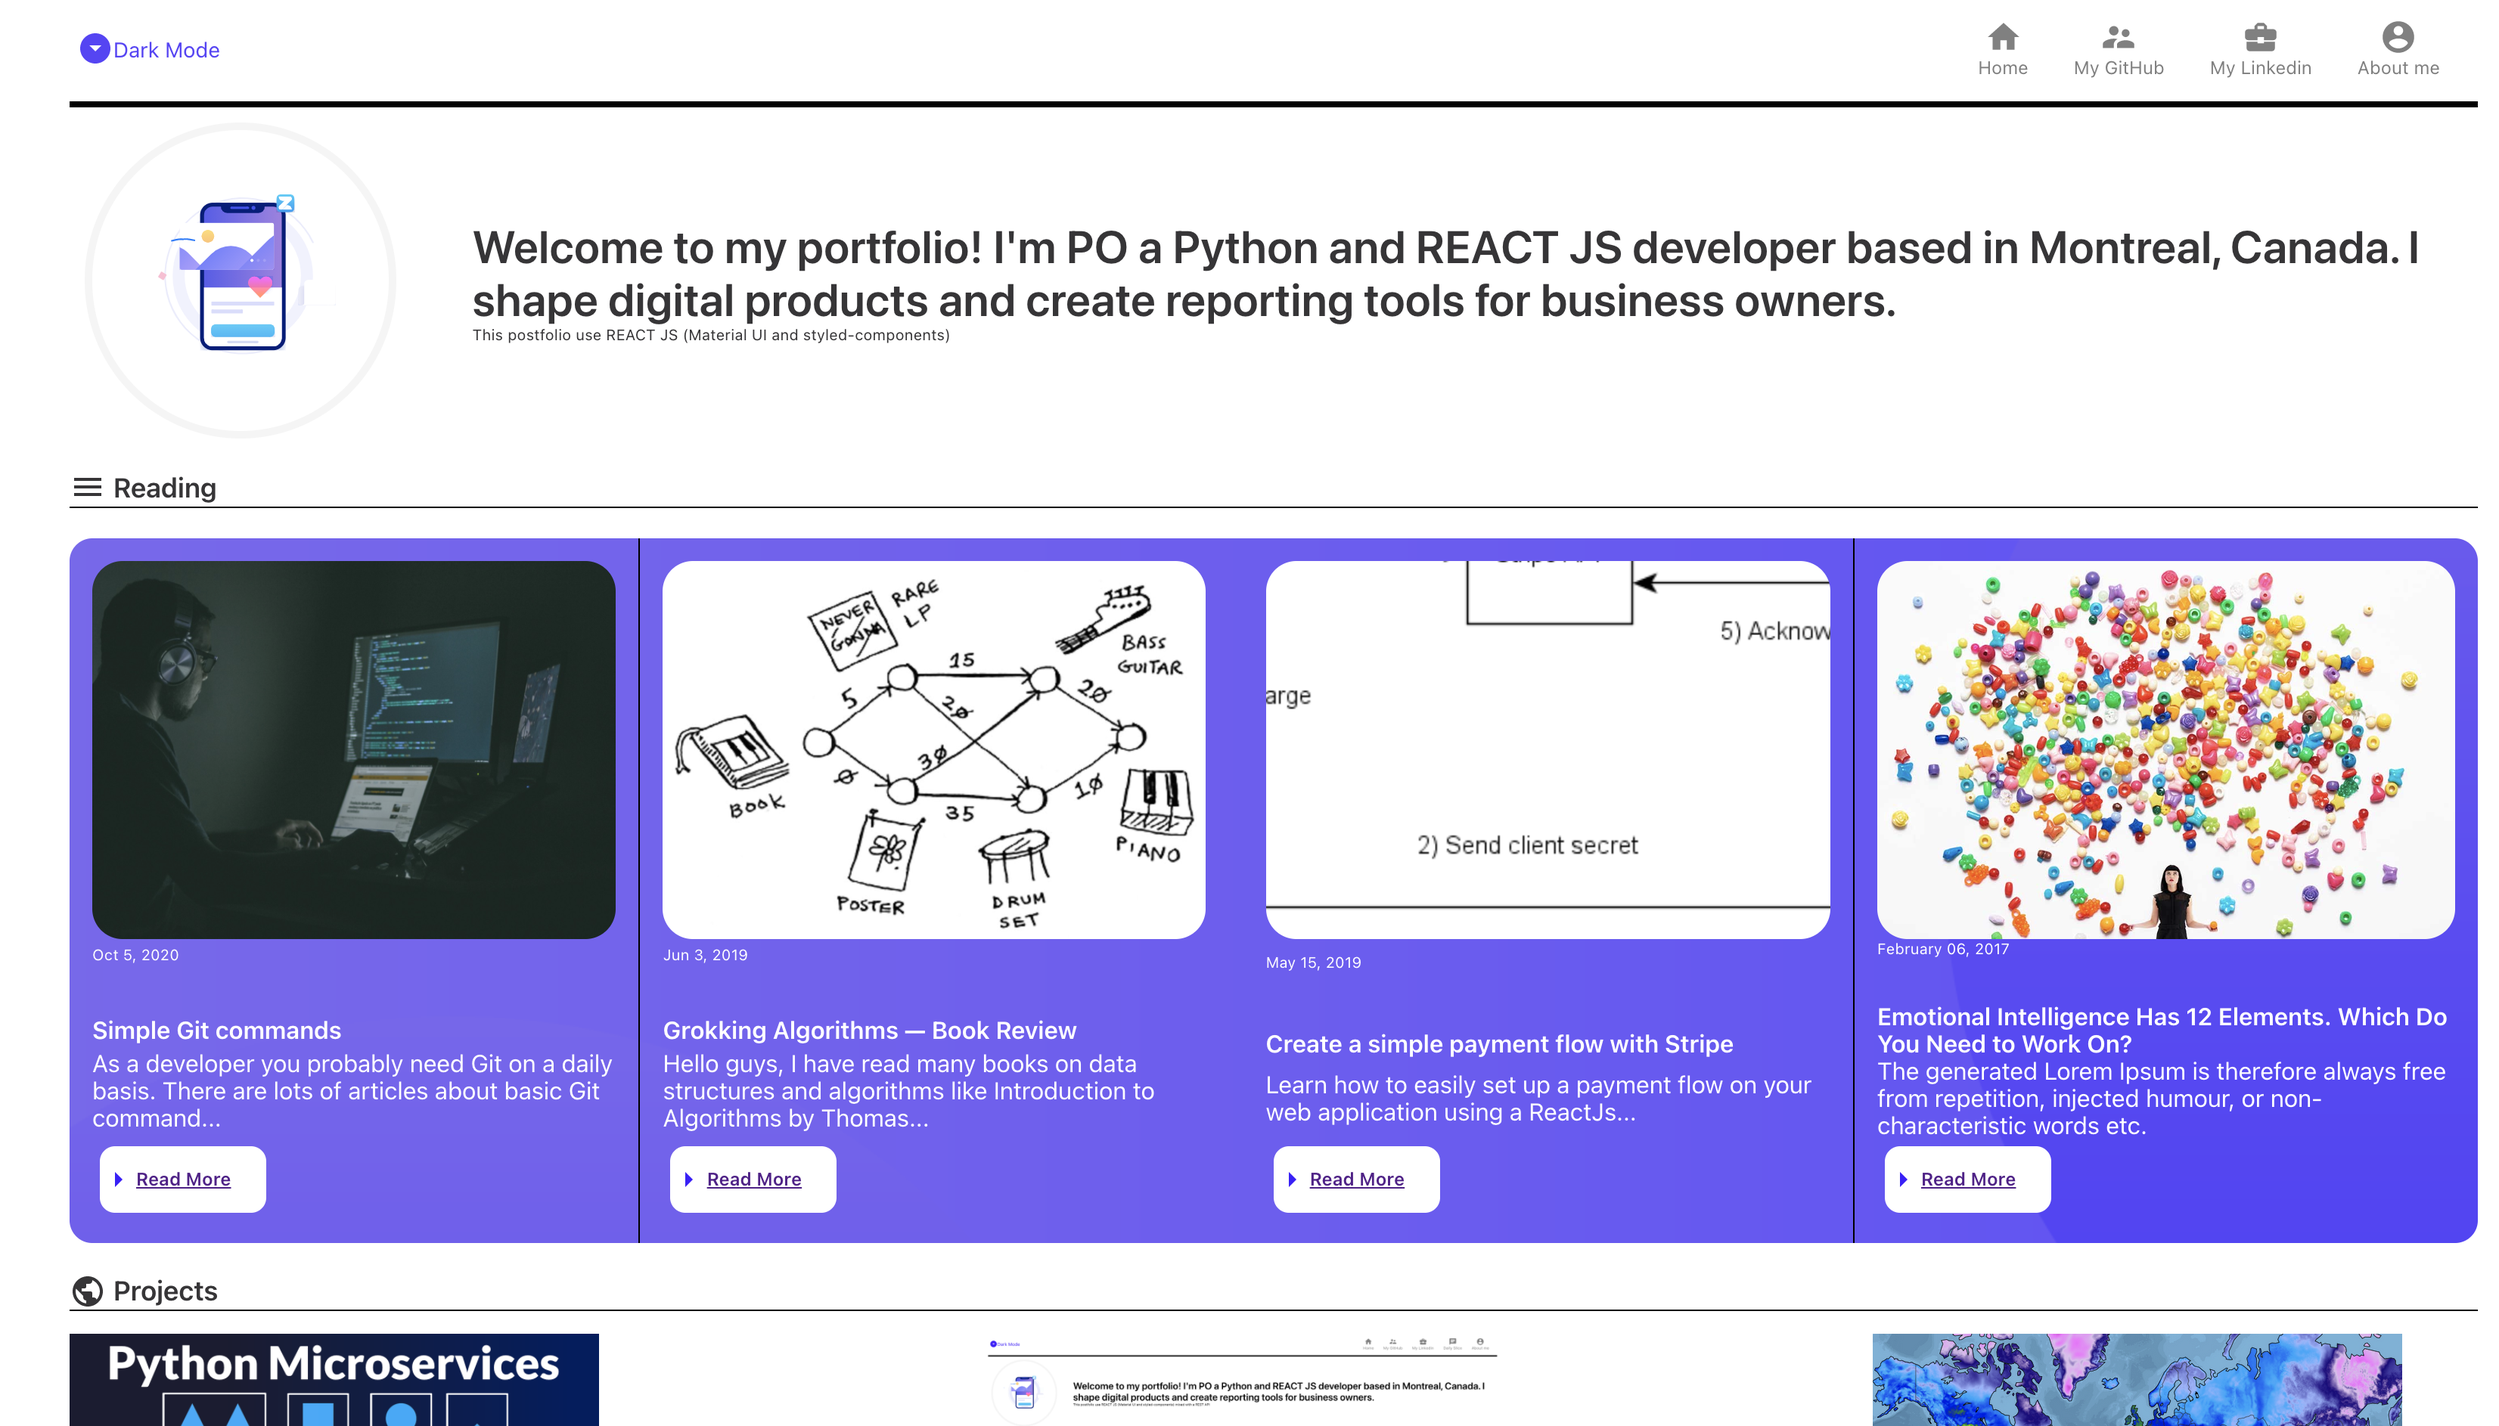
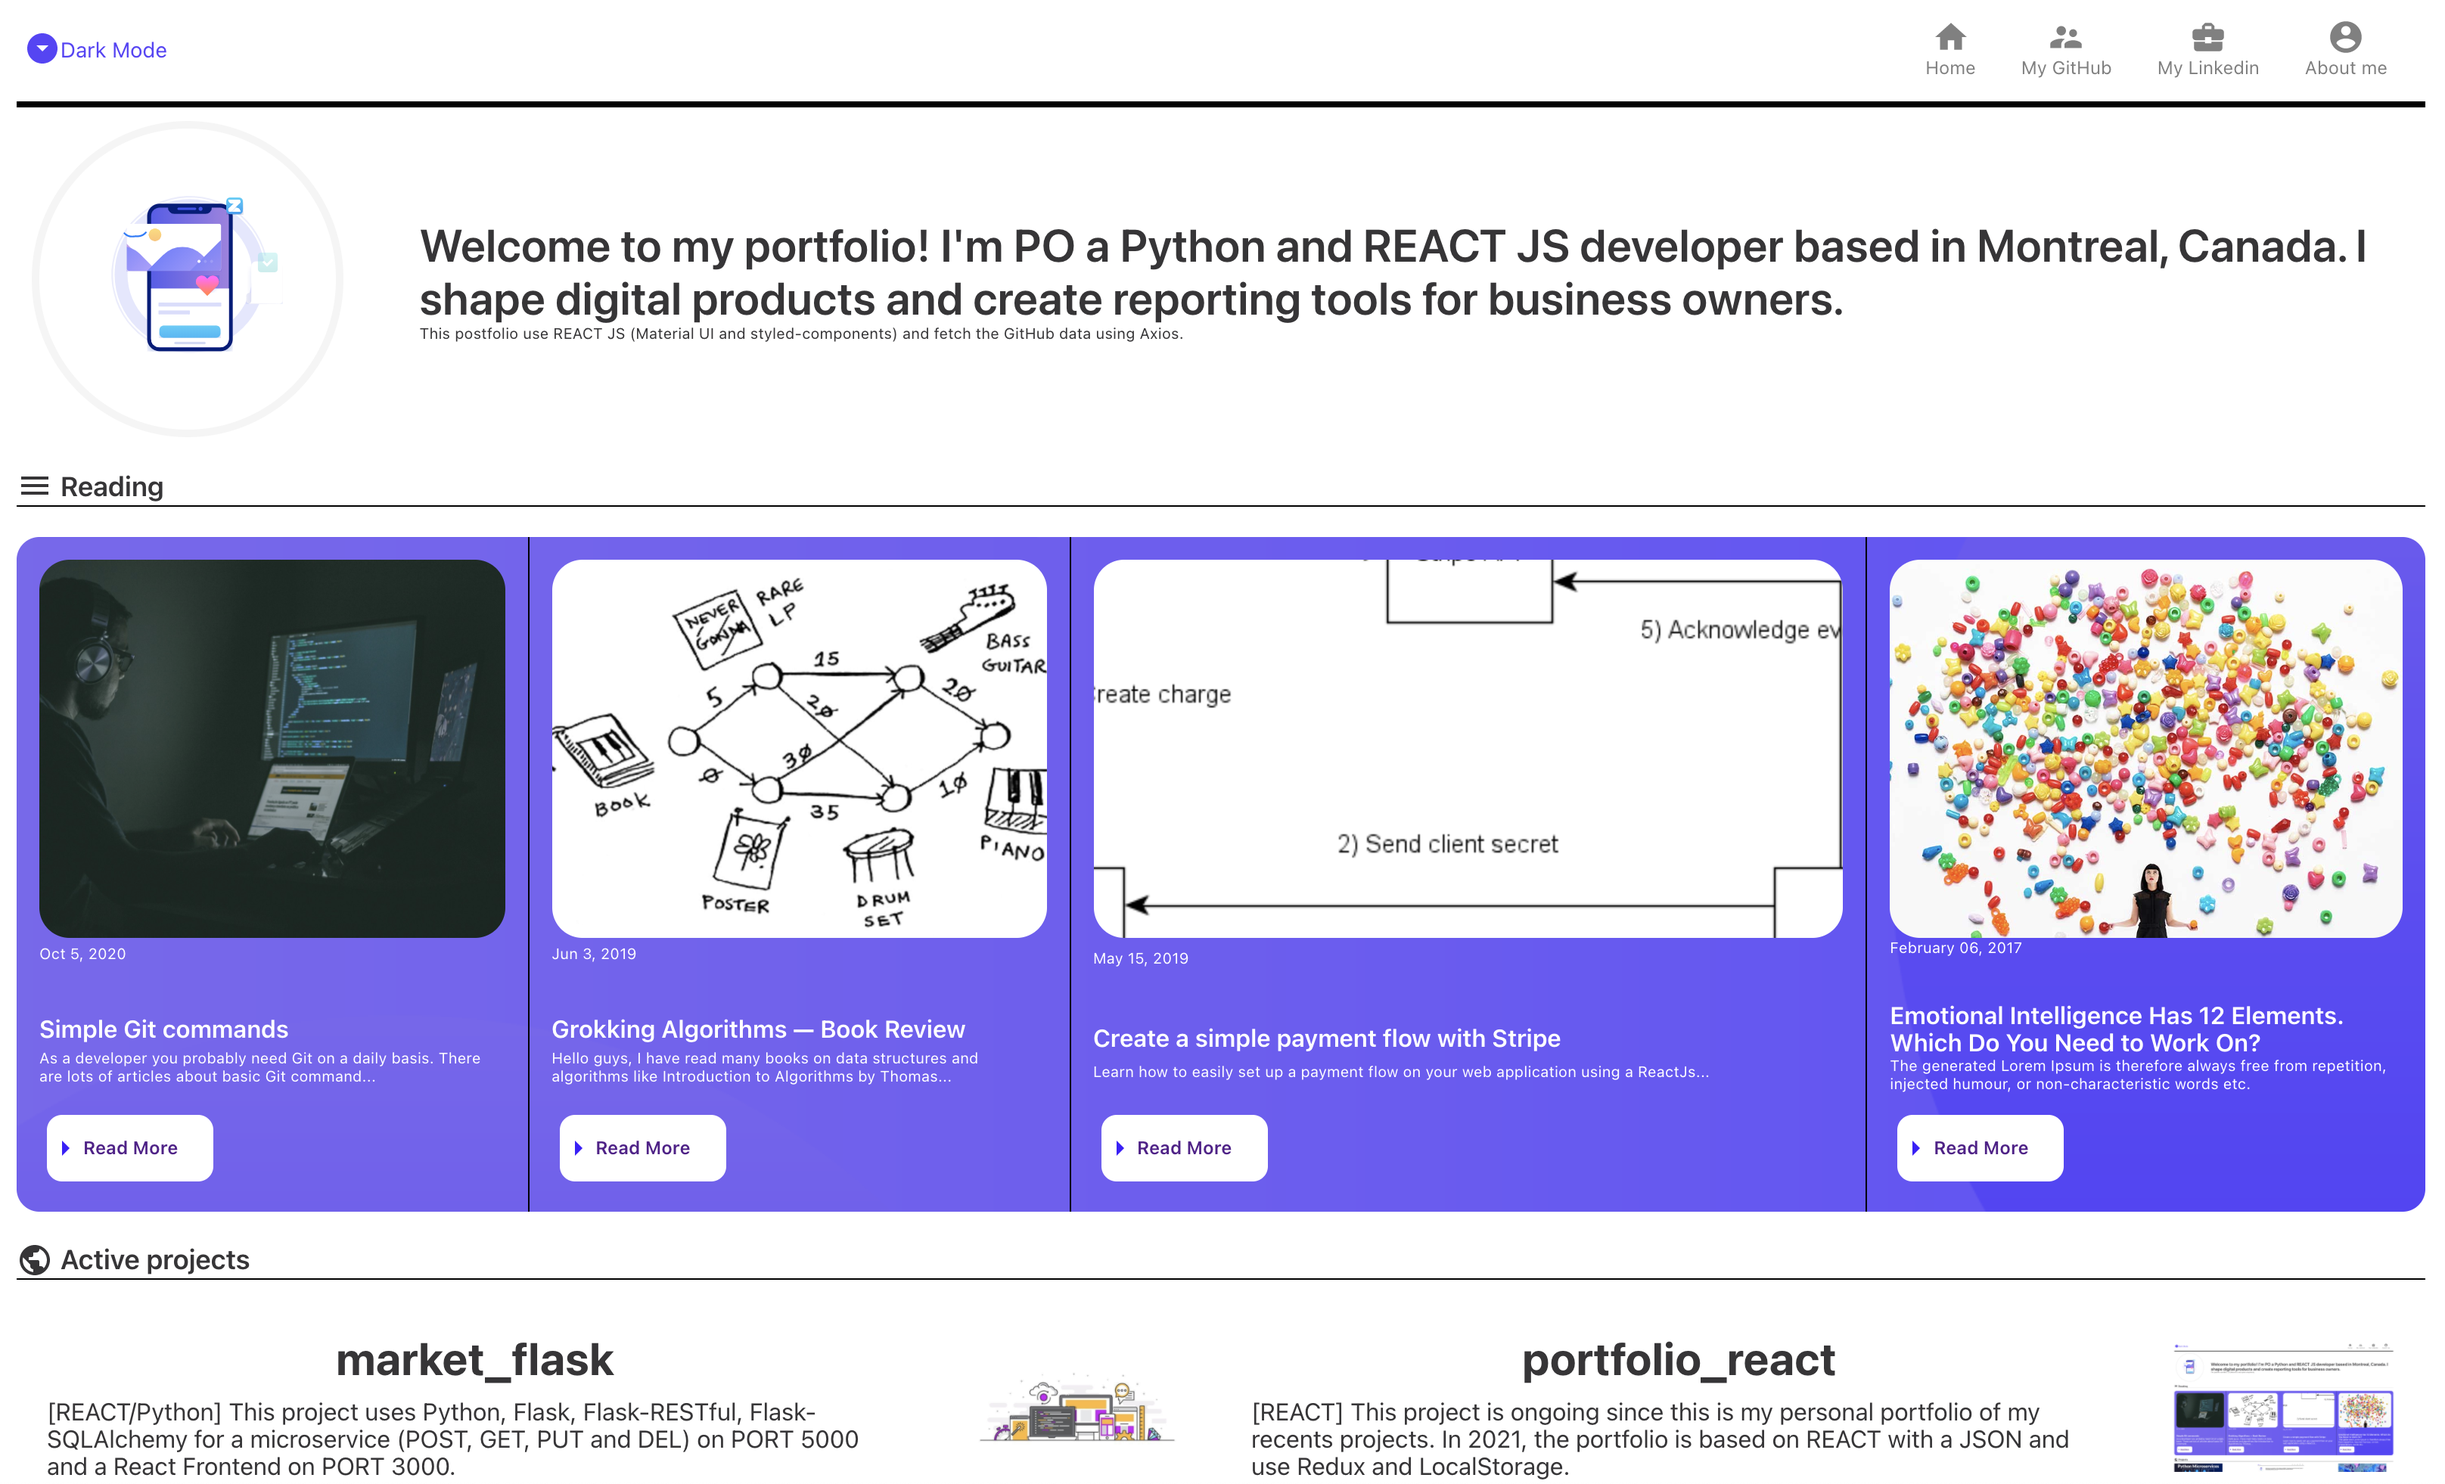
Revised Fetch API & pictures

diff --git a/src/components/API/api.js b/src/components/API/api.js
@@ -1,0 +1,64 @@
+import React from "react";
+import axios from "axios";
+import { Container, Inner, Pane, Title, SubTitle, Image } from "./styles/api";
+
+export default class GithubAPI extends React.Component {
+  state = {
+    rev_projects: [],
+  };
+
+  compareBy(key, ascending) {
+    let reverse = ascending ? 1 : -1;
+    return function (a, b) {
+      if (a[key] < b[key]) return -1 * reverse;
+      if (a[key] > b[key]) return 1 * reverse;
+      return 0;
+    };
+  }
+  componentDidMount() {
+    try {
+      axios.get(`https://api.github.com/users/poboisvert/repos`).then((res) => {
+        let rev_projects = res.data;
+        rev_projects.sort(this.compareBy("id"));
+        this.setState({ rev_projects });
+        console.log(rev_projects);
+      });
+    } catch (e) {
+      console.log(e);
+    }
+  }
+
+  render() {
+    return (
+      <>
+        {!this.state.rev_projects ? (
+          "Please review the data structure for the variable data"
+        ) : (
+          <>
+            <Inner direction="row">
+              {this.state.rev_projects
+                .filter(
+                  (array) =>
+                    array.name === "market_flask" ||
+                    array.name === "portfolio_react"
+                )
+                .map((project, i) => (
+                  <>
+                    <Container key={i}>
+                      <Pane>
+                        <Title>{project.name}</Title>
+                        <SubTitle>{project.description}</SubTitle>
+                      </Pane>
+                      <Pane>
+                        <Image src={project.homepage} />
+                      </Pane>
+                    </Container>
+                  </>
+                ))}
+            </Inner>
+          </>
+        )}
+      </>
+    );
+  }
+}

diff --git a/src/components/API/styles/api.js b/src/components/API/styles/api.js
@@ -1,0 +1,71 @@
+import styled from "styled-components/macro";
+
+export const Inner = styled.div`
+  display: flex;
+  flex-direction: ${({ direction }) => direction};
+  justify-content: center;
+
+  @media (max-width: 1000px) {
+    flex-direction: column;
+  }
+`;
+
+export const Pane = styled.div`
+  display: flex;
+  flex-direction: column;
+  justify-content: center;
+  align-items: center;
+  padding: 20px;
+
+  @media (max-width: 1000px) {
+    width: 100%;
+    padding: 0 45px;
+    text-align: center;
+  }
+`;
+
+export const Title = styled.h1`
+  font-size: 30px;
+  line-height: 1.1;
+  margin-bottom: 10px;
+
+  @media (max-width: 600px) {
+    font-size: 35px;
+  }
+`;
+
+export const SubTitle = styled.h2`
+  font-size: 16px;
+  font-weight: normal;
+  line-height: normal;
+
+  @media (max-width: 600px) {
+    font-size: 18px;
+  }
+`;
+
+export const Image = styled.img`
+  max-width: 150px;
+  height: auto;
+`;
+
+export const Item = styled.div`
+  display: flex;
+  border-bottom: 8px solid #222;
+  padding: 50px 5%;
+  color: white;
+  overflow: hidden;
+`;
+
+export const Container = styled.div`
+  display: flex;
+  flex: 0.5;
+  flex-direction: row;
+  justify-content: space-evenly;
+
+  @media (max-width: 1000px) {
+    ${Item}:last-of-type h2 {
+      margin-bottom: 50px;
+    }
+  }
+`;

diff --git a/src/components/Jumbotron/styles/Jumbotron.js b/src/components/Jumbotron/styles/Jumbotron.js
@@ -1,0 +1,71 @@
+import styled from "styled-components/macro";
+
+export const Inner = styled.div`
+  display: flex;
+  flex-direction: ${({ direction }) => direction};
+  justify-content: center;
+
+  @media (max-width: 1000px) {
+    flex-direction: column;
+  }
+`;
+
+export const Pane = styled.div`
+  display: flex;
+  flex-direction: column;
+  justify-content: center;
+  align-items: center;
+  padding: 20px;
+
+  @media (max-width: 1000px) {
+    width: 100%;
+    padding: 0 45px;
+    text-align: center;
+  }
+`;
+
+export const Title = styled.h1`
+  font-size: 50px;
+  line-height: 1.1;
+  margin-bottom: 8px;
+
+  @media (max-width: 600px) {
+    font-size: 35px;
+  }
+`;
+
+export const SubTitle = styled.h2`
+  font-size: 16px;
+  font-weight: normal;
+  line-height: normal;
+
+  @media (max-width: 600px) {
+    font-size: 18px;
+  }
+`;
+
+export const Image = styled.img`
+  max-width: 150px;
+  height: auto;
+`;
+
+export const Item = styled.div`
+  display: flex;
+  border-bottom: 8px solid #222;
+  padding: 50px 5%;
+  color: white;
+  overflow: hidden;
+`;
+
+export const Container = styled.div`
+  display: flex;
+  flex: 0.5;
+  flex-direction: row;
+  justify-content: space-evenly;
+
+  @media (max-width: 1000px) {
+    ${Item}:last-of-type h2 {
+      margin-bottom: 50px;
+    }
+  }
+`;

diff --git a/src/components/Projects/FetchCard.js b/src/components/Projects/FetchCard.js
@@ -17,12 +17,17 @@ export default class FetchArticle extends React.Component {
     rev_projects: [],
   };
 
-  /*   componentDidMount() {
+  /*   
+  
+  Fetch for general profile
+
+  componentDidMount() {
     axios.get(`https://api.github.com/users/poboisvert`).then((res) => {
       const persons = res.data;
       this.setState({ persons });
     });
   } */
+
   compareBy(key, ascending) {
     let reverse = ascending ? 1 : -1;
     return function (a, b) {
@@ -31,15 +36,13 @@ export default class FetchArticle extends React.Component {
       return 0;
     };
   }
-  async componentDidMount() {
+  componentDidMount() {
     try {
-      axios
-        .get(`https://api.github.com/users/poboisvert/repos?per_page=50`)
-        .then((res) => {
-          let rev_projects = res.data;
-          rev_projects.sort(this.compareBy("id"));
-          this.setState({ rev_projects });
-        });
+      axios.get(`https://api.github.com/users/poboisvert/repos`).then((res) => {
+        let rev_projects = res.data;
+        rev_projects.sort(this.compareBy("id"));
+        this.setState({ rev_projects });
+      });
     } catch (e) {
       console.log(e);
     }

diff --git a/src/App.js b/src/App.js
@@ -26,6 +26,7 @@ import { GlobalStyles } from "./components/Theme/GlobalStyle";
 import { lightTheme, darkTheme } from "./components/Theme/Theme";
 
 import { About } from "./components/About/About";
+import Jumbotron from "./components/Jumbotron/Jumbotron";
 
 /* https://blog.hackages.io/
  */
@@ -52,6 +53,10 @@ function App() {
                     </ConditionalWrapper>
                     <ArticlesContainer />
                     <ConditionalWrapper>
+                      <Subcategory icon={PublicIcon} title="Active projects" />
+                    </ConditionalWrapper>
+                    <Jumbotron />
+                    <ConditionalWrapper>
                       <Subcategory icon={PublicIcon} title="Projects" />
                     </ConditionalWrapper>
                     <ProjectContainer />
@@ -59,6 +64,7 @@ function App() {
                 )}
               />
               <Route exact path="/about" component={About} />
+
               <Footer />
             </div>
           </Switch>

diff --git a/src/components/About/styles/About.js b/src/components/About/styles/About.js
@@ -25,7 +25,7 @@ export const Text = styled.p`
 export const Image = styled.img`
   display: flex;
   flex: 0.3;
-  max-height: 450px;
+  max-height: 350px;
   object-fit: cover;
   margin: 0 auto;
   padding: 10px;

diff --git a/src/components/Jumbotron/Jumbotron.js b/src/components/Jumbotron/Jumbotron.js
@@ -1,0 +1,10 @@
+import React from "react";
+import GithubAPI from "../API/api";
+
+export default function Jumbotron() {
+  return (
+    <>
+      <GithubAPI />
+    </>
+  );
+}

diff --git a/src/components/Articles/FetchArticle.js b/src/components/Articles/FetchArticle.js
@@ -11,6 +11,7 @@ import {
   Last,
 } from "./styles/FetchArticle";
 
+// Articles storage
 const data = {
   content: {
     body: [
